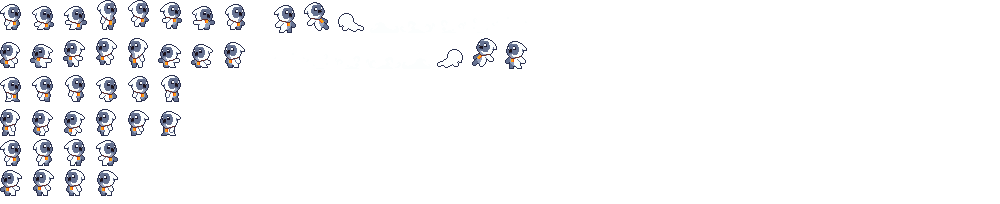
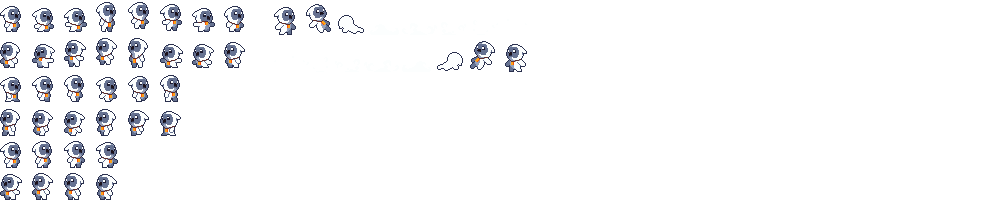
Player module, basic movement and animations
Added player module with player's left and right movement. Need to fix camera movement to follow player correctly

diff --git a/Game/Source/Player.cpp b/Game/Source/Player.cpp
@@ -1,0 +1,218 @@
+#include "Player.h"
+
+#include "App.h"
+#include "Textures.h"
+#include "Input.h"
+#include "Render.h"
+//#include "Particles.h"
+#include "Audio.h"
+//#include "Collisions.h"
+//#include "FadeToBlack.h"
+//#include "Fonts.h"
+#include "Log.h"
+#include "Map.h"
+#include "Window.h"
+
+#include <stdio.h>
+
+Player::Player() : Module()
+{
+	name.Create("player");
+
+	// idle animation - just one sprite
+	rIdleAnim.PushBack({ 0, 136, 32, 32 });
+	rIdleAnim.PushBack({ 32, 136, 32, 32 });
+	rIdleAnim.PushBack({ 64, 136, 32, 32 });
+	rIdleAnim.PushBack({ 96, 136, 32, 32 });
+	rIdleAnim.speed = 0.02f;
+
+	lIdleAnim.PushBack({ 96, 168, 32, 32 });
+	lIdleAnim.PushBack({ 64, 168, 32, 32 });
+	lIdleAnim.PushBack({ 32, 168, 32, 32 });
+	lIdleAnim.PushBack({ 0, 168, 32, 32 });
+	lIdleAnim.speed = 0.02f;
+
+	rWalkAnim.PushBack({ 0, 70, 32, 32 });
+	rWalkAnim.PushBack({ 32, 70, 32, 32 });
+	rWalkAnim.PushBack({ 64, 70, 32, 32 });
+	rWalkAnim.PushBack({ 96, 70, 32, 32 });
+	rWalkAnim.PushBack({ 128, 70, 32, 32 });
+	rWalkAnim.PushBack({ 160, 70, 32, 32 });
+	rWalkAnim.speed = 0.05f;
+
+	lWalkAnim.PushBack({ 160, 104, 32, 32 });
+	lWalkAnim.PushBack({ 128, 104, 32, 32 });
+	lWalkAnim.PushBack({ 96, 104, 32, 32 });
+	lWalkAnim.PushBack({ 64, 104, 32, 32 });
+	lWalkAnim.PushBack({ 32, 104, 32, 32 });
+	lWalkAnim.PushBack({ 0, 104, 32, 32 });
+	lWalkAnim.speed = 0.05f;
+}
+
+Player::~Player()
+{
+
+}
+
+bool Player::Awake()
+{
+	return true;
+}
+
+bool Player::Start()
+{
+	LOG("Loading player textures");
+
+	bool ret = true;
+
+	texture = app->tex->Load("Assets/player/player.png");
+	//++activeTextures; ++totalTextures;
+	currentAnimation = &rIdleAnim;
+
+	laserFx = app->audio->LoadFx("Assets/Fx/laser.wav");
+	//++activeFx; ++totalFx;
+
+	explosionFx = app->audio->LoadFx("Assets/Fx/explosion.wav");
+	//++activeFx; ++totalFx;
+
+	position.x = 2 * app->map->data.tileWidth;
+	position.y = 11.5 * app->map->data.tileHeight;
+
+	destroyed = false;
+
+	//collider = app->collisions->AddCollider({ position.x, position.y, 32, 16 }, Collider::Type::PLAYER, this);
+	//++activeColliders; ++totalColliders;
+
+	/*char lookupTable[] = { "! @,_./0123456789$;< ?abcdefghijklmnopqrstuvwxyz" };
+	scoreFont = app->fonts->Load("Assets/Fonts/rtype_font3.png", lookupTable, 2);
+	++activeFonts; ++totalFonts;*/
+
+	return ret;
+}
+
+bool Player::Update(float dt)
+{
+	bool ret = true;
+
+	// Moving the player with the camera scroll
+	//app->player->position.x += 1;
+
+	//WTF3 fix camera movement with player
+
+	if (app->input->GetKey(SDL_SCANCODE_A) == KeyState::KEY_REPEAT)
+	{
+		currentAnimation = &lWalkAnim;
+		if (position.x > app->win->screenSurface->w / 4)
+		{
+			app->render->camera.x += speed;
+		}
+
+		position.x -= speed;
+	}
+
+	if (app->input->GetKey(SDL_SCANCODE_D) == KeyState::KEY_REPEAT)
+	{
+		currentAnimation = &rWalkAnim;
+		if (position.x > app->win->screenSurface->w / 4)
+		{
+			app->render->camera.x -= speed;
+		}
+		position.x += speed;
+	}
+
+	/*if (app->input->keys[SDL_SCANCODE_SPACE] == Key_State::KEY_DOWN)
+	{
+		Particle* newParticle = app->particles->AddParticle(app->particles->laser, position.x + 20, position.y, Collider::Type::PLAYER_SHOT);
+		newParticle->collider->AddListener(this);
+		app->audio->PlayFx(laserFx);
+	}*/
+
+	 //If no right/left movement detected, set the current animation back to idle
+	if (app->input->GetKey(SDL_SCANCODE_A) == KeyState::KEY_IDLE
+		&& app->input->GetKey(SDL_SCANCODE_D) == KeyState::KEY_IDLE
+		&& (currentAnimation != &rIdleAnim && currentAnimation != &lIdleAnim))
+	{
+		if (currentAnimation == &rWalkAnim) 
+			currentAnimation = &rIdleAnim;
+		else if (currentAnimation == &lWalkAnim) 
+			currentAnimation = &lIdleAnim;
+	}
+		
+
+	//collider->SetPos(position.x, position.y);
+
+	//WTF
+	//currentAnimation->Update();
+
+	return ret;
+}
+
+bool Player::PostUpdate()
+{
+	bool ret = false;
+
+	if (!destroyed)
+	{
+		SDL_Rect rect = currentAnimation->GetCurrentFrame();
+		app->render->DrawTexture(texture, position.x, position.y, &rect);
+		ret = true;
+	}
+
+	/*
+	// Draw UI (score) --------------------------------------
+	sprintf_s(scoreText, 10, "%7d", score);
+
+	app->fonts->BlitText(58, 248, scoreFont, scoreText);
+
+	app->fonts->BlitText(150, 248, scoreFont, "this is just a font test");*/
+
+	return ret;
+}
+
+bool Player::CleanUp()
+{
+	//activeTextures = activeColliders = activeFonts = activeFx = 0;
+
+	// TODO 1: Remove ALL remaining resources. Update resource count properly
+
+	app->tex->UnLoad(texture);
+	//--totalTextures;
+
+	//WTF2
+	/*
+	app->audio->UnloadFx(laserFx);
+	//--totalFx;
+
+	app->audio->UnloadFx(explosionFx);
+	//--totalFx;*/
+
+	/*app->collisions->RemoveCollider(collider);
+	--totalColliders;
+
+	app->fonts->UnLoad(scoreFont);
+	--totalFonts;*/
+
+	return true;
+}
+
+/*void Player::OnCollision(Collider* c1, Collider* c2)
+{
+	if (c1 == collider && destroyed == false)
+	{
+		App->particles->AddParticle(App->particles->explosion, position.x, position.y, Collider::Type::NONE, 9);
+		App->particles->AddParticle(App->particles->explosion, position.x + 8, position.y + 11, Collider::Type::NONE, 14);
+		App->particles->AddParticle(App->particles->explosion, position.x - 7, position.y + 12, Collider::Type::NONE, 40);
+		App->particles->AddParticle(App->particles->explosion, position.x + 5, position.y - 5, Collider::Type::NONE, 28);
+		App->particles->AddParticle(App->particles->explosion, position.x - 4, position.y - 4, Collider::Type::NONE, 21);
+
+		App->audio->PlayFx(explosionFx);
+		App->fade->FadeToBlack((Module*)App->sceneLevel_1, (Module*)App->sceneIntro, 60);
+
+		destroyed = true;
+	}
+
+	if (c1->type == Collider::Type::PLAYER_SHOT && c2->type == Collider::Type::ENEMY)
+	{
+		score += 23;
+	}
+}*/

diff --git a/Game/Source/Player.h b/Game/Source/Player.h
@@ -1,0 +1,75 @@
+#ifndef __PLAYER_H__
+#define __PLAYER_H__
+
+#include "Module.h"
+#include "Animation.h"
+#include "Point.h"
+
+struct SDL_Texture;
+struct Collider;
+
+class Player : public Module
+{
+public:
+	// Constructor
+	Player();
+
+	// Destructor
+	virtual ~Player();
+
+	bool Awake();
+
+	// Called when the module is activated
+	// Loads the necessary textures for the player
+	bool Start();
+
+	// Called at the middle of the application loop
+	// Processes new input and handles player movement
+	bool Update(float dt);
+
+	// Called at the end of the application loop
+	// Performs the render call of the player sprite
+	bool PostUpdate();
+
+	bool CleanUp();
+
+	// Collision callback, called when the player intersects with another collider
+	//void OnCollision(Collider* c1, Collider* c2) override;
+
+public:
+	// Position of the player in the map
+	iPoint position;
+
+	// The speed in which we move the player (pixels per frame)
+	int speed = 1;
+
+	// The player spritesheet loaded into an SDL_Texture
+	SDL_Texture* texture = nullptr;
+
+	// The pointer to the current player animation
+	// It will be switched depending on the player's movement direction
+	Animation* currentAnimation = nullptr;
+
+	// A set of animations
+	Animation rIdleAnim;
+	Animation lIdleAnim;
+	Animation rWalkAnim;
+	Animation lWalkAnim;
+
+	// The player's collider
+	Collider* collider = nullptr;
+
+	// A flag to detect when the player has been destroyed
+	bool destroyed = false;
+
+	// Sound effects indices
+	uint laserFx = 0;
+	uint explosionFx = 0;
+
+	// Font score index
+	uint score = 000;
+	int scoreFont = -1;
+	char scoreText[10] = { "\0" };
+};
+
+#endif //!__MODULE_PLAYER_H__

diff --git a/Game/Source/Render.cpp b/Game/Source/Render.cpp
@@ -4,6 +4,7 @@
 
 #include "Defs.h"
 #include "Log.h"
+#include "player.h"
 
 #define VSYNC true
 
@@ -133,14 +134,33 @@ bool Render::DrawTexture(SDL_Texture* texture, int x, int y, const SDL_Rect* sec
 	bool ret = true;
 	uint scale = app->win->GetScale();
 
+	bool texturePlayer = texture == app->player->texture;
+
 	SDL_Rect rect;
-	rect.x = (int)(camera.x * speed) + x * scale;
-	rect.y = (int)(camera.y * speed) + y * scale;
+	if (texturePlayer == false)
+	{
+		rect.x = (int)(camera.x * speed) + x * scale;
+		rect.y = (int)(camera.y * speed) + y * scale;
+	}
+	
+	else
+	{
+		rect.x = x;
+		rect.y = y;
+	}
 
 	if(section != NULL)
 	{
-		rect.w = section->w;
-		rect.h = section->h;
+		if (texturePlayer == false)
+		{
+			rect.w = section->w;
+			rect.h = section->h;
+		}
+		else
+		{
+			rect.w = section->w * 2;
+			rect.h = section->h * 2;
+		}
 	}
 	else
 	{

diff --git a/Game/Source/App.cpp b/Game/Source/App.cpp
@@ -6,6 +6,7 @@
 #include "Audio.h"
 #include "Scene.h"
 #include "Map.h"
+#include "Player.h"
 //#include "Animation.h"
 #include "Defs.h"
 #include "Log.h"
@@ -26,6 +27,7 @@ App::App(int argc, char* args[]) : argc(argc), args(args)
 	audio = new Audio();
 	scene = new Scene();
 	map = new Map();
+	player = new Player();
 
 	// Ordered for awake / Start / Update
 	// Reverse order of CleanUp
@@ -36,6 +38,7 @@ App::App(int argc, char* args[]) : argc(argc), args(args)
 	AddModule(audio);
 	AddModule(scene);
 	AddModule(map);
+	AddModule(player);
 
 	// Render last to swap buffer
 	AddModule(render);

diff --git a/Game/Source/App.h b/Game/Source/App.h
@@ -18,6 +18,7 @@ class Audio;
 class Scene;
 class Map;
 class Animation;
+class Player;
 
 class App
 {
@@ -90,6 +91,7 @@ public:
 	Scene* scene;
 	Map* map;
 	Animation* animation;
+	Player* player;
 
 private:
 

diff --git a/Game/Source/Textures.cpp b/Game/Source/Textures.cpp
@@ -72,6 +72,7 @@ SDL_Texture* const Textures::Load(const char* path)
 	}
 	else
 	{
+		LOG("Succesfully loaded surface with path: %s.", path);
 		texture = LoadSurface(surface);
 		SDL_FreeSurface(surface);
 	}

diff --git a/Game/Source/Animation.h b/Game/Source/Animation.h
@@ -2,7 +2,7 @@
 #define __ANIMATION_H__
 
 #include "SDL/include/SDL_rect.h"
-#define MAX_FRAMES 50000
+#define MAX_FRAMES 500
 
 class Animation
 {
